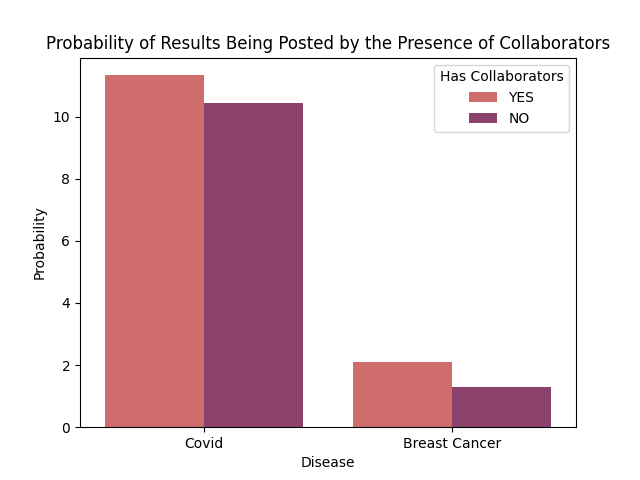
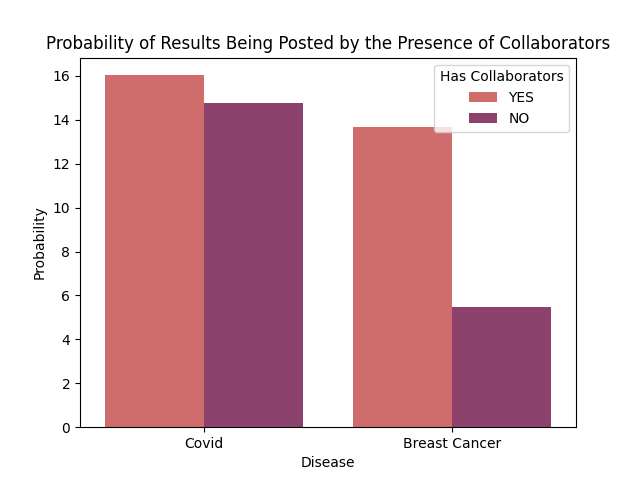
Collaborator code tweaked

diff --git a/collaborators.py b/collaborators.py
@@ -18,7 +18,7 @@ sns.barplot(count, x="Has Collaborators", y="count", hue="Disease", palette="fla
 plt.title("Distribution of Studies by Presence of Collaborators")
 plt.show()
 
-cFiltered = c[["Has Collaborators", "Study Results"]]
+cFiltered = c[c["Past Completion"] >= 365]
 cProbs = pd.DataFrame(columns=["Has Collaborators", "Probability"])
 for value in ["YES", "NO"]:
     temp = cFiltered[cFiltered["Has Collaborators"] == value]
@@ -30,7 +30,7 @@ for value in ["YES", "NO"]:
     cProbs = pd.concat([cProbs, counts])
 cProbs["Disease"] = "Covid"
 
-bcFiltered = bc[["Has Collaborators", "Study Results"]]
+bcFiltered = bc[bc["Past Completion"] >= 365]
 bcProbs = pd.DataFrame(columns=["Has Collaborators", "Probability"])
 for value in ["YES", "NO"]:
     temp = bcFiltered[bcFiltered["Has Collaborators"] == value]
